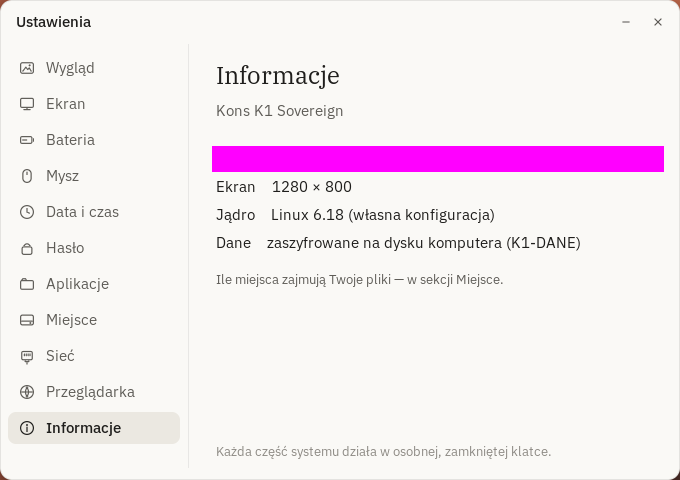
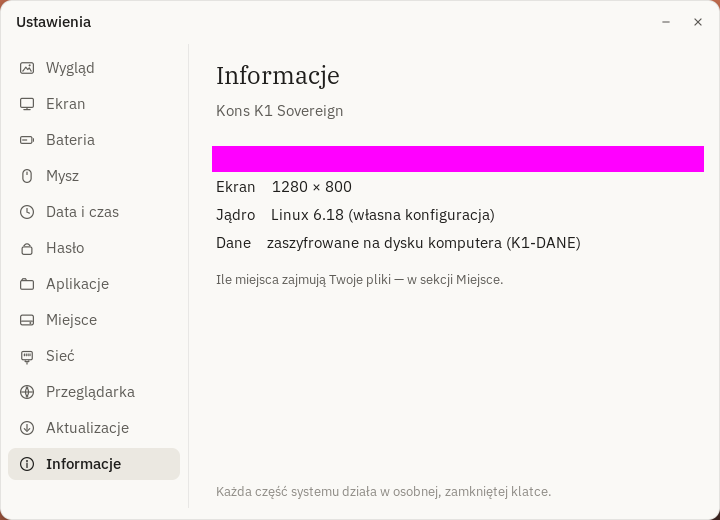
Reference screenshots: Ustawienia 720x520 with Aktualizacje, the Start menu
The owner's OK on 2026-11-17 (before / after shown): Ustawienia's 24
pictures in the new size, the two new ones of Aktualizacje, the Start
menu with Instalator's new description. Nothing else changed.

Claude-Session: https://claude.ai/code/session_01UqVepEyJXJ77UEBYM2jYQH

diff --git a/docs/TESTY.md b/docs/TESTY.md
@@ -149,7 +149,7 @@ wywołań i odrzuconych komunikatów; tekstów, haseł, nazw plików i sieci nie
 |---|---|---|
 | `test-m1.sh` | `start`, `testy-w-systemie`, 7 negatywnych (z KVM równolegle) | start z dm-verity aż do pulpitu, brak baterii; testy w systemie (warstwa 5) z restartem ekranu i kontrolowanym wyłączeniem; NEGATYWNE: brak dysku, dysk bez obrazu, obraz bez init, zły `k1.rdzen` (pozostałe przypadki parametru — `test_cmdline`), brak skrótu, zły skrót, jeden bajt obrazu zmieniony — każdy kończy się komunikatem i wyłączeniem, bez paniki |
 | `test-m4.sh` | `pulpit` (od 0.10.2 obraz testowy z opisem ekranu — klika po nazwach), `ponownie`, `haslo`, `iso-bios` | kursor, mysz i klawiatura (dawny `test-m2.sh`: ruch, strzałki, przycisk, brak śladu); pulpit (ikony, menu pod prawym przyciskiem, przypinanie, przeciąganie na pasku i pulpicie), menu Start, okienko sesji (0.10.1 krok 4: Start → Przeglądarka — kafelki Ogólnej, Banku i Prywatnej z kropką w kolorze sesji, zrzut `m4-1f-okienko-sesji`; „Anuluj” nie uruchamia strefy), Notatki (polskie znaki, dwie notatki), Zegar, Ustawienia (ciemny motyw, tapeta, rozdzielczość; 0.10.1 krok 4: Przeglądarka w obu motywach — trzy karty sesji, rząd pikseli między kartami w kolorze tła okna, czyli opis nie wchodzi na następną kartę; zrzuty `m4-5c-przegladarka-jasny`, `-ciemny`), Zasoby, Kalkulator, minimalizacja, Start → Wyłącz; dysk zaszyfrowany; po ponownym starcie ustawienia, rozmieszczenie i notatki wracają; hasło: ekran hasła, złe i dobre, Wyloguj; start z ISO przez BIOS (SeaBIOS, VESA, simpledrm) |
-| `test-wzorce.sh` | 1 (obraz testowy z opisem ekranu i pustym dyskiem danych) | **zrzuty wzorcowe** (0.10.2 krok 3, decyzja D4) w obu motywach: dolny i górny pasek, ikony pulpitu, menu Start, okienko „Którą sesję otworzyć?”, Ustawienia — każda z 11 sekcji, Pliki, Zasoby, Kalkulator — 38 obrazów w `testy/wzorce/` co do piksela; ramkę strefy (`ramka-strefy-jasny`, `-ciemny`) sprawdza `test-strefa.sh` |
+| `test-wzorce.sh` | 1 (obraz testowy z opisem ekranu i pustym dyskiem danych) | **zrzuty wzorcowe** (0.10.2 krok 3, decyzja D4) w obu motywach: dolny i górny pasek, ikony pulpitu, menu Start, okienko „Którą sesję otworzyć?”, Ustawienia — każda z 12 sekcji (od 0.10.5 Aktualizacje), Pliki, Zasoby, Kalkulator — 40 obrazów w `testy/wzorce/` co do piksela; ramkę strefy (`ramka-strefy-jasny`, `-ciemny`) sprawdza `test-strefa.sh` |
 | `test-pliki.sh` | `pierwszy`, `ponownie`, `notatki` | foldery, nazwy (zajęta — odmowa), Kosz (przywróć, usuń na zawsze z pytaniem), pliki na pulpicie i ich menu, przeciąganie i Ctrl+klik, foldery stałe (odmowa), po ponownym starcie zostają; dysk formatu 1 z notatkami jako plikami: Notatki, okno wyboru pliku (Otwórz, Anuluj), „Otwórz za pomocą”, domyślna aplikacja, Ustawienia → Aplikacje |
 | `test-pendrive.sh` | `pendrive`, `ponownie` | wirtualny pendrive FAT32 (mtools, Pillow): czytnik w klatce tylko do odczytu, import (pojedynczo, wszystkie, drugi raz — pominięte), pliki 17 MB i 300 MB kawałkami, miniatury (JPEG, PNG, GIF, BMP, WebP, 48/100 Mpx), NEGATYWNE: uszkodzony JPEG, 101 Mpx, plik z pendrive'a na Kosz, plik bez aplikacji; tapeta ze zdjęcia; Podgląd (przybliżanie, obrót, ← →, Delete, Ctrl+O, płynność); Ustawienia → Miejsce; wyjęcie, NTFS (odmowa), „mały” FAT32 z 1100 zdjęciami (0.10.0 krok 4: kółko nad listą — 3 wiersze na ząbek, w górę ponad początek, NEGATYWNY: nad miejscami po lewej nic); po ponownym starcie tapeta i magazyn z filmem otwarty od razu |
 | `test-skarbiec.sh` | `dziennik` (+ponownie), `przejscie`, `pelny`, `powiekszenie` (+ponownie), `dokonczenie` | dyski z `magazyn_testowy`: długi dziennik → kompaktowanie przy otwarciu; przejście z formatu 1 na 2 dopiero po potwierdzonym starcie, krokami < 1 s; prawie pełna K1-DANE: „Nowy folder” odrzucony, ustawienie systemu się zapisuje; „Użyj całego pendrive'a na dane” → nowa tablica, import 16 zdjęć; dokończenie powiększenia po przerwie prądu; na hoście treść każdego obiektu |
